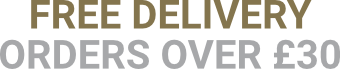
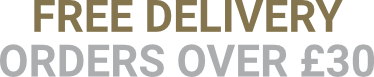
Work on getting nav responsive

diff --git a/templates/base.html b/templates/base.html
@@ -23,23 +23,25 @@
         <li class="p-2"><a>Basket</a></li>
       </ul>
   </div>
-  <div class="d-flex justify-content-around text-center">
-    <a class="col-md-4 align-self-center" href="{% url 'home' %}">
-      <img src="/static/img/free_delivery.png" class="img-fluid" style="width: 150px;">
-    </a>
-    <a class="col-md-4" href="{% url 'home' %}">
-      <img src="/static/img/logo.png" class="img-fluid" style="width: 150px;">
-    </a>
-    <form id="nav-search" class="col-md-4 form-inline">
-      <input class="form-control mr-sm-2" type="search" placeholder="Search" aria-label="Search" />
-      <button class="btn btn-outline-success my-2 my-sm-0" type="submit">
-        Search
-      </button>
-    </form>
+  
+  <div class="container-fluid text-center">
+    <div class="row">
+      <a class="free-dev col-md-4 align-self-center" href="{% url 'home' %}">
+        <img src="/static/img/free_delivery.png" class="img-fluid" style="width: 250px;">
+      </a>
+      <a class="logo col-md-4" href="{% url 'home' %}">
+        <img src="/static/img/logo.png" class="img-fluid" style="width: 180px;">
+      </a>
+      <form id="nav-search" class="form-inline col-sm-12 col-md-4 justify-content-center">
+        <input class="form-control col-sm-8 col-md-8 col-lg-6 mr-sm-1" type="search" placeholder="Search" aria-label="Search" />
+        <button class="btn btn-outline-success col-sm-2 col-md-2 col-lg-2" type="submit">
+          <i class="fa fa-search "></i>
+        </button>
+      </form>
   </div>
 </header>
 
-<nav class="navbar navbar-expand-lg navbar-light bg-light">
+<nav id="nav" class="navbar navbar-expand-lg navbar-light bg-light">
   <button class="navbar-toggler" type="button" data-toggle="collapse" data-target="#navbarSupportedContent" aria-controls="navbarSupportedContent" aria-expanded="false" aria-label="Toggle navigation">
     <span class="navbar-toggler-icon"></span>
   </button>
@@ -50,7 +52,7 @@
     <ul class="navbar-nav nav-fill w-100 d-flex">
       {% with url_name=request.resolver_match.url_name %}
       <li class="nav-item {% if url_name == 'home' %}active{% endif %}">
-        <a class="nav-link" href="{% url 'home' %}">Home</a>
+        <a class="nav-link align-self-center" href="{% url 'home' %}">Home</a>
       </li>
       <li class="nav-item {% if url_name == 'products' %}active{% endif %}">
         <a class="nav-link" href="/products">Buy Tickets</a>
@@ -75,7 +77,7 @@
     <ul class="navbar-nav nav-fill w-100 d-flex">
       {% with url_name=request.resolver_match.url_name %}
       <li class="nav-item {% if url_name == 'home' %}active{% endif %}">
-        <a class="nav-link" href="{% url 'home' %}">Home</a>
+        <a class="nav-link align-self-center" href="{% url 'home' %}">Home</a>
       </li>
       <li class="nav-item {% if url_name == 'products' %}active{% endif %}">
         <a class="nav-link" href="{% url 'products' %}">Buy Tickets</a>

diff --git a/templates/home.html b/templates/home.html
@@ -3,7 +3,7 @@
 
 <div class="container">
     <div class="row">
-        <h2>Our Story</h2>
+        <h1>Our Story</h1>
 
         <p>Lorem ipsum dolor, sit amet consectetur adipisicing elit. Quisquam blanditiis quibusdam architecto magni
             accusamus at eos asperiores vero nesciunt. Ratione maiores quidem earum sequi nostrum in incidunt labore

diff --git a/static/css/main.css b/static/css/main.css
@@ -72,8 +72,7 @@ div {
 
 .carousel__img {
   max-height: 60vh;
-  object-fit: cover;
-  background-position: 0 50%; }
+  object-fit: cover; }
 
 .header-top {
   background-color: #566948;
@@ -85,3 +84,9 @@ div {
 
 .navbar {
   background-color: #97a88b; }
+
+.logo {
+  margin-bottom: 20px; }
+
+.free-dev {
+  margin-bottom: 20px; }

diff --git a/static/scss/_config.scss b/static/scss/_config.scss
@@ -14,6 +14,7 @@ main {
     padding: 0 20px;
 }
 
+
 h1 {
     font-family: 'Playfair Display', serif;
 }
@@ -24,8 +25,7 @@ a,
 li,
     {
     font-family: "Roboto",Arial,sans-serif;
-    // margin-bottom: 10px;
-}
+    
 
 p,
     {
@@ -38,4 +38,9 @@ p {
 
 div {
     margin-bottom: 15px;
+        
 }
+
+
+
+

diff --git a/static/scss/_nav.scss b/static/scss/_nav.scss
@@ -14,3 +14,11 @@
     background-color: $lightgreen; 
 }
 
+.logo {
+    margin-bottom: 20px;
+}
+
+.free-dev {
+    margin-bottom: 20px;
+    
+}

diff --git a/static/scss/_jumbotron.scss b/static/scss/_jumbotron.scss
@@ -20,5 +20,4 @@
 .carousel__img {
     max-height: 60vh;
     object-fit: cover;
-    background-position: 0 50%;
 }
